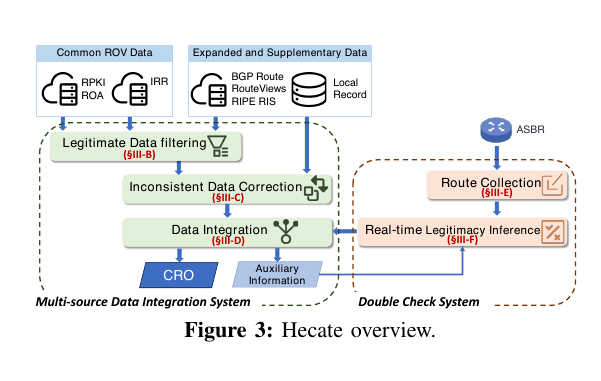
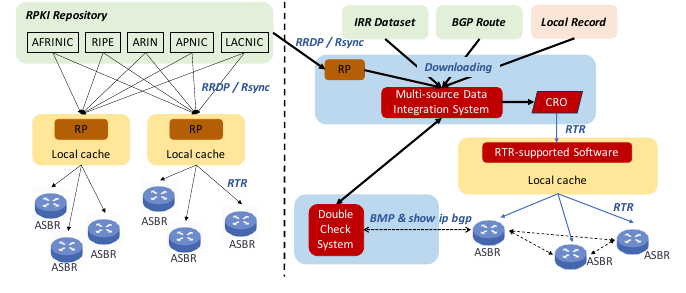
Refine selected research figures

diff --git a/research.html b/research.html
@@ -5,7 +5,7 @@
 <meta name="generator" content="jemdoc, see http://jemdoc.jaboc.net/" />
 <meta http-equiv="Content-Type" content="text/html;charset=utf-8" />
 <meta name="viewport" content="width=device-width, initial-scale=1" />
-<link rel="stylesheet" href="jemdoc.css?v=20260908-research" type="text/css" />
+<link rel="stylesheet" href="jemdoc.css?v=20260908-figures" type="text/css" />
 <title>Jia Zhang - Research</title>
 </head>
 <body>
@@ -45,6 +45,7 @@
   <div class="research-card">
     <div class="research-figure">
       <img src="photos/research/hecate-overview.png" alt="Hecate multi-source route origin validation architecture" />
+      <div class="research-figure-caption">Hecate: Multi-Source Route Origin Validation</div>
     </div>
     <div class="research-copy">
       <div class="research-kicker">Routing Security</div>
@@ -58,6 +59,7 @@
   <div class="research-card research-card-wide">
     <div class="research-figure">
       <img src="photos/research/qudit-attack-flow.png" alt="QUDIT receiver-driven attack flow against delay-based QUIC congestion control" />
+      <div class="research-figure-caption">QUDIT: Receiver-Driven Attack Workflow</div>
     </div>
     <div class="research-copy">
       <div class="research-kicker">Transport Security</div>
@@ -71,7 +73,8 @@
 
   <div class="research-card">
     <div class="research-figure">
-      <img src="photos/research/floo-overview.png" alt="Floo architecture for application-aware congestion control selection" />
+      <img src="photos/research/wisetrans-overview.png" alt="WiseTrans architecture for adaptive transport protocol selection" />
+      <div class="research-figure-caption">WiseTrans: Adaptive Transport Protocol Selection</div>
     </div>
     <div class="research-copy">
       <div class="research-kicker">AI-Driven Networking</div>

diff --git a/jemdoc.css b/jemdoc.css
@@ -389,8 +389,10 @@ li p, dd p {
 
 .research-figure {
     display: flex;
+    flex-direction: column;
     align-items: center;
     justify-content: center;
+    gap: 0.45rem;
     min-height: 205px;
     padding: 0.65rem;
     border: 1px solid var(--line);
@@ -403,6 +405,16 @@ li p, dd p {
     width: 100%;
     max-height: 245px;
     object-fit: contain;
+}
+
+.research-figure-caption {
+    color: var(--navy);
+    font-family: -apple-system, BlinkMacSystemFont, "Segoe UI", Helvetica, Arial, sans-serif;
+    font-size: 0.78rem;
+    font-weight: 680;
+    letter-spacing: 0.01em;
+    line-height: 1.35;
+    text-align: center;
 }
 
 .research-kicker {

diff --git a/index.html b/index.html
@@ -5,7 +5,7 @@
 <meta name="generator" content="jemdoc, see http://jemdoc.jaboc.net/" />
 <meta http-equiv="Content-Type" content="text/html;charset=utf-8" />
 <meta name="viewport" content="width=device-width, initial-scale=1" />
-<link rel="stylesheet" href="jemdoc.css?v=20260908-research" type="text/css" />
+<link rel="stylesheet" href="jemdoc.css?v=20260908-figures" type="text/css" />
 <title>Jia Zhang (张佳)</title>
 </head>
 <body>

diff --git a/bio.html b/bio.html
@@ -5,7 +5,7 @@
 <meta name="generator" content="jemdoc, see http://jemdoc.jaboc.net/" />
 <meta http-equiv="Content-Type" content="text/html;charset=utf-8" />
 <meta name="viewport" content="width=device-width, initial-scale=1" />
-<link rel="stylesheet" href="jemdoc.css?v=20260908-research" type="text/css" />
+<link rel="stylesheet" href="jemdoc.css?v=20260908-figures" type="text/css" />
 <title>Jia Zhang - Bio</title>
 </head>
 <body>

diff --git a/jemdoc.py b/jemdoc.py
@@ -140,7 +140,7 @@ def standardconf():
   <meta name="viewport" content="width=device-width, initial-scale=1" />
   
   [defaultcss]
-  <link rel="stylesheet" href="jemdoc.css?v=20260908-research" type="text/css" />
+  <link rel="stylesheet" href="jemdoc.css?v=20260908-figures" type="text/css" />
   
   [windowtitle]
   # used in header for window title.
